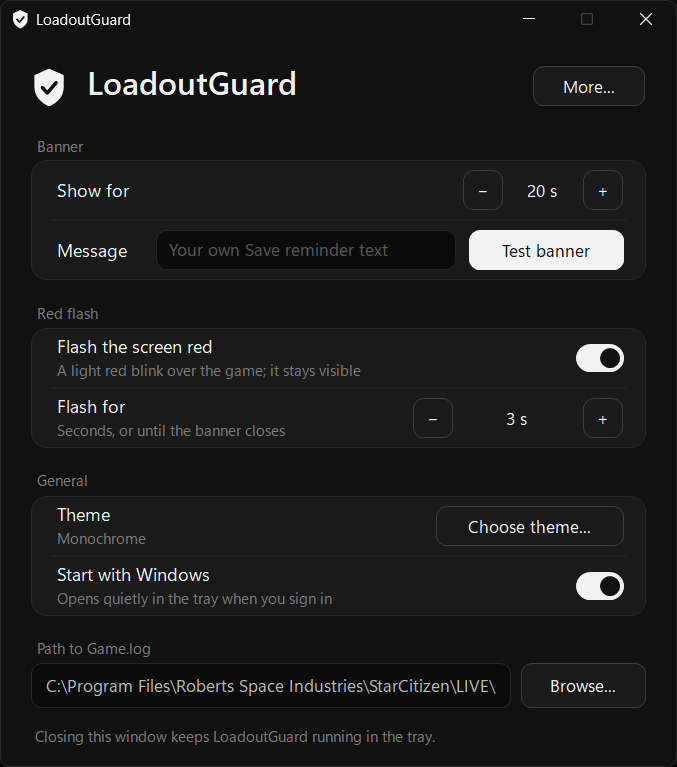
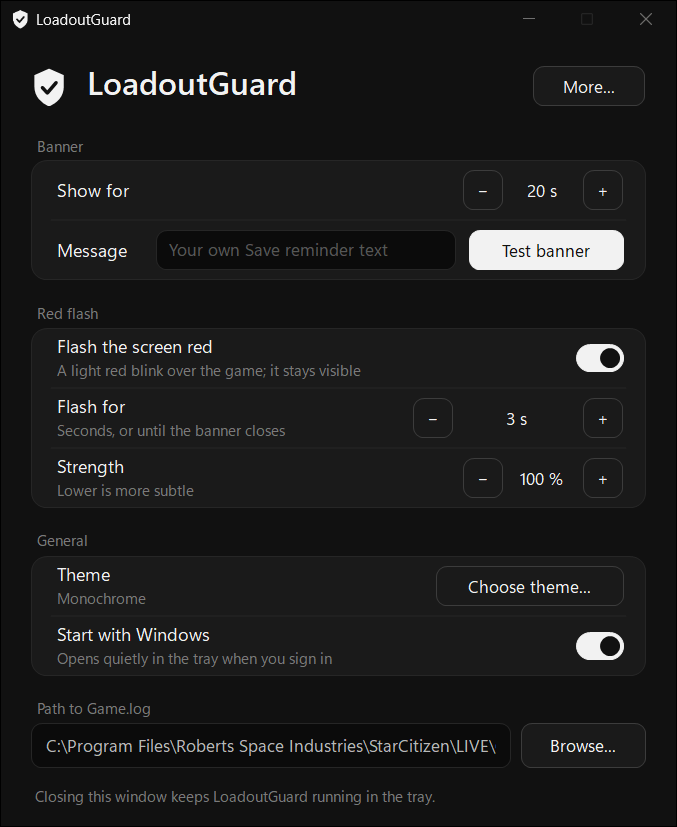
Add a Strength setting for the red flash
A new row in the Red flash card sets how strong the red gets, 10 to 100 %
in steps of 10, so the blink can be made more subtle. Saved as
flashStrength in settings.ini (1-100, default 100 = unchanged).
README and screenshot updated.

diff --git a/src/MainWindow.cs b/src/MainWindow.cs
@@ -10,7 +10,8 @@ class MainWindow : Form
 {
     static readonly int[] SecondSteps = { 5, 10, 15, 20, 30, 45, 60, 90, 120 };
     static readonly int[] FlashSteps = { 3, 5, 10, 20, 30, 60, 0 }; // 0 = until the banner closes
-    public const int Height96 = 582;
+    static readonly int[] StrengthSteps = { 10, 20, 30, 40, 50, 60, 70, 80, 90, 100 };
+    public const int Height96 = 630;
     const int Width96 = 540, Pad = 24, Inner = Width96 - 2 * Pad, Right = Inner - 18, RowH = 48;
     const string FooterText = "Closing this window keeps LoadoutGuard running in the tray.";
 
@@ -18,10 +19,10 @@ class MainWindow : Form
     readonly Action changed, testBanner, checkUpdates, uninstall;
     readonly Mark mark = new Mark();
     readonly Label title = new Label(), footer = new Label();
-    readonly Label secondsValue = new Label(), flashValue = new Label(), themeName = new Label();
+    readonly Label secondsValue = new Label(), flashValue = new Label(), strengthValue = new Label(), themeName = new Label();
     readonly Toggle startup = new Toggle(), flash = new Toggle();
     readonly PillButton fewer = new PillButton(), more = new PillButton(), test = new PillButton();
-    readonly PillButton shorter = new PillButton(), longer = new PillButton();
+    readonly PillButton shorter = new PillButton(), longer = new PillButton(), weaker = new PillButton(), stronger = new PillButton();
     readonly PillButton chooseTheme = new PillButton(), browse = new PillButton(), options = new PillButton();
     readonly TextBox customMessage = new TextBox(), logPath = new TextBox();
     readonly List<Label> sections = new List<Label>(), rowTitles = new List<Label>(), rowNotes = new List<Label>();
@@ -97,7 +98,7 @@ class MainWindow : Form
 
         // red flash
         Section("Red flash", 212);
-        var red = AddCard(232, 2, RowH);
+        var red = AddCard(232, 3, RowH);
         ToggleRow(red, 0, flash, "Flash the screen red", "A light red blink over the game; it stays visible",
             settings.Flash, delegate { settings.Flash = flash.Checked; });
         var flashLabel = new Label { Text = "Flash for", Font = Ui.Font(10.5f) };
@@ -112,10 +113,22 @@ class MainWindow : Form
         ShowFlashSeconds();
         shorter.Click += delegate { SetFlashSeconds(-1); };
         longer.Click += delegate { SetFlashSeconds(+1); };
+        var strengthLabel = new Label { Text = "Strength", Font = Ui.Font(10.5f) };
+        PlaceText(red, strengthLabel, 18, 2 * RowH + 5);
+        rowTitles.Add(strengthLabel);
+        var strengthNote = new Label { Text = "Lower is more subtle", Font = Ui.Font(9f) };
+        PlaceText(red, strengthNote, 18, 2 * RowH + 26);
+        rowNotes.Add(strengthNote);
+        weaker.Text = "−";
+        stronger.Text = "+";
+        Stepper(red, 2, weaker, strengthValue, stronger, 64);
+        ShowStrength();
+        weaker.Click += delegate { SetStrength(-1); };
+        stronger.Click += delegate { SetStrength(+1); };
 
         // theme and startup
-        Section("General", 346);
-        var general = AddCard(366, 2, RowH);
+        Section("General", 394);
+        var general = AddCard(414, 2, RowH);
         var themeLabel = new Label { Text = "Theme", Font = Ui.Font(10.5f) };
         PlaceText(general, themeLabel, 18, 5);
         rowTitles.Add(themeLabel);
@@ -133,14 +146,14 @@ class MainWindow : Form
             AutoStart.Enabled, delegate { SetAutoStart(); });
 
         // Game.log
-        logSection = Section("Path to Game.log", 480);
+        logSection = Section("Path to Game.log", 528);
         // typed, pasted or browsed; same rounded frame as the message box
         var logFrame = new PathBox { Cursor = Cursors.IBeam };
-        Place(this, logFrame, Pad, 500, Inner - 108, 36);
+        Place(this, logFrame, Pad, 548, Inner - 108, 36);
         logFrame.Click += delegate { logPath.Focus(); };
         logPath.BorderStyle = BorderStyle.None;
         logPath.Text = settings.GameLog; // before the handler, so loading doesn't count as a change
-        Place(this, logPath, Pad + 12, 500, Inner - 108 - 24, 20);
+        Place(this, logPath, Pad + 12, 548, Inner - 108 - 24, 20);
         logPath.Top = logFrame.Top + (logFrame.Height - logPath.Height) / 2;
         logPath.BringToFront();
         logPath.TextChanged += delegate
@@ -150,12 +163,12 @@ class MainWindow : Form
         };
         logPath.KeyDown += (s, e) => { if (e.KeyCode == Keys.Enter) e.SuppressKeyPress = true; }; // no error ding
         browse.Text = "Browse...";
-        Place(this, browse, Pad + Inner - 100, 500, 100, 36);
+        Place(this, browse, Pad + Inner - 100, 548, 100, 36);
         browse.Click += delegate { Browse(); };
 
         footer.Text = FooterText;
         footer.Font = Ui.Font(9f);
-        PlaceText(this, footer, Pad, 550);
+        PlaceText(this, footer, Pad, 598);
 
         ApplyTheme();
         Shown += delegate { ActiveControl = null; }; // no blinking caret in the message box on open
@@ -186,7 +199,7 @@ class MainWindow : Form
         Ui.StyleTitleBar(this, t);
 
         title.ForeColor = t.Text;
-        secondsValue.ForeColor = flashValue.ForeColor = customMessage.ForeColor = t.Text;
+        secondsValue.ForeColor = flashValue.ForeColor = strengthValue.ForeColor = customMessage.ForeColor = t.Text;
         logPath.ForeColor = t.Text2;
         customMessage.BackColor = logPath.BackColor = t.Side;
         footer.ForeColor = t.Text3;
@@ -248,6 +261,23 @@ class MainWindow : Form
     void ShowFlashSeconds()
     {
         flashValue.Text = settings.FlashSeconds == 0 ? "Until closed" : settings.FlashSeconds + " s";
+    }
+
+    // One step along StrengthSteps, from the nearest step (a hand-typed value may be between them).
+    void SetStrength(int direction)
+    {
+        int i = 0;
+        while (i < StrengthSteps.Length - 1 && StrengthSteps[i] < settings.FlashStrength) i++;
+        // StrengthSteps[i] is the first step >= the value: + lands on it if the value is between steps
+        if (StrengthSteps[i] == settings.FlashStrength || direction < 0) i += direction;
+        settings.FlashStrength = StrengthSteps[Math.Max(0, Math.Min(StrengthSteps.Length - 1, i))];
+        ShowStrength();
+        Changed();
+    }
+
+    void ShowStrength()
+    {
+        strengthValue.Text = settings.FlashStrength + " %";
     }
 
     void Browse()

diff --git a/tests/SelfTest.cs b/tests/SelfTest.cs
@@ -168,11 +168,13 @@ static class SelfTest
 
     static void TestSettings()
     {
-        var p = Settings.Parse(new[] { "; comment", "editorOpenPattern = a=b", "saveButtonArea=", "bannerSeconds=abc", "FLASH=false", "flashSeconds=-2", "unknown=true", "junk" });
+        var p = Settings.Parse(new[] { "; comment", "editorOpenPattern = a=b", "saveButtonArea=", "bannerSeconds=abc", "FLASH=false", "flashSeconds=-2", "flashStrength=0", "unknown=true", "junk" });
         Check(p.EditorOpenPattern == "a=b", "a value may contain '='");
         Check(p.SaveButtonArea == "", "an empty value is kept (turns Save detection off)");
         Check(p.BannerSeconds == new Settings().BannerSeconds, "a bad number keeps the default");
         Check(p.FlashSeconds == new Settings().FlashSeconds, "a negative flash time keeps the default");
+        Check(p.FlashStrength == 100, "a flash strength below 1 keeps the default");
+        Check(Settings.Parse(new[] { "flashStrength=250" }).FlashStrength == 100, "a flash strength above 100 is capped");
         Check(!p.Flash, "booleans and key case are handled; unknown keys are ignored");
         Check(Settings.Parse(new[] { "flash=maybe" }).Flash, "a bad boolean keeps the default");
         Check(!p.IsNew, "a parsed file is not a first run");
@@ -192,6 +194,7 @@ static class SelfTest
             original.BannerSeconds = 7;
             original.Flash = false;
             original.FlashSeconds = 0;
+            original.FlashStrength = 40;
             original.Theme = "Ember";
             original.SaveButtonArea = "0.1,0.2,0.3,0.4";
             original.CustomMessage = "Insure the ship = do it now!";
@@ -203,7 +206,7 @@ static class SelfTest
             Check(Settings.Parse(File.ReadAllLines(path)).CustomMessage == "Save insurance", "a line break in the custom message is saved as a space");
             Check(new Settings().CustomMessage == "", "no custom message by default");
             Check(back.GameLog == original.GameLog && back.EditorOpenPattern == original.EditorOpenPattern
-                && back.BannerSeconds == 7 && !back.Flash && back.FlashSeconds == 0 && back.Theme == "Ember"
+                && back.BannerSeconds == 7 && !back.Flash && back.FlashSeconds == 0 && back.FlashStrength == 40 && back.Theme == "Ember"
                 && back.SaveButtonArea == "0.1,0.2,0.3,0.4",
                 "saved settings read back unchanged");
         }

diff --git a/src/Settings.cs b/src/Settings.cs
@@ -17,6 +17,7 @@ class Settings
     public string CustomMessage = ""; // empty = the standard Save reminder text
     public bool Flash = true; // a light red blink over the game with each reminder
     public int FlashSeconds = 3; // 0 = until the banner closes
+    public int FlashStrength = 100; // percent of the strongest red, 1-100
     public string Theme = "Monochrome";
 
     // True when no settings file existed yet (first run).
@@ -60,6 +61,7 @@ class Settings
                 case "custommessage": s.CustomMessage = value; break;
                 case "flash": s.Flash = Bool(value, s.Flash); break;
                 case "flashseconds": s.FlashSeconds = Number(value, 0, s.FlashSeconds); break;
+                case "flashstrength": s.FlashStrength = Math.Min(100, Number(value, 1, s.FlashStrength)); break;
                 case "theme": s.Theme = value; break;
             }
         }
@@ -86,6 +88,8 @@ class Settings
             "flash=" + Text(Flash),
             "; How long it blinks, in seconds (one blink per second). 0 = until the banner closes.",
             "flashSeconds=" + FlashSeconds,
+            "; How strong the red is, in percent (1 to 100). Lower is more subtle.",
+            "flashStrength=" + FlashStrength,
             "; Monochrome, Nebula, Ember, Midnight, mobiGlas or Paper.",
             "theme=" + Theme,
             "",

diff --git a/src/ScreenFlash.cs b/src/ScreenFlash.cs
@@ -12,6 +12,7 @@ class ScreenFlash : Form
     readonly Timer timer = new Timer { Interval = 15 };
     DateTime started;
     int seconds;
+    double peak;
 
     public ScreenFlash()
     {
@@ -42,9 +43,11 @@ class ScreenFlash : Form
     }
 
     // Blinks for this many seconds, or with 0 until Stop() is called (when the banner closes).
-    public void Blink(int seconds)
+    // strength: percent of Peak, so players can make it more subtle.
+    public void Blink(int seconds, int strength)
     {
         this.seconds = seconds;
+        peak = Peak * Math.Max(1, Math.Min(100, strength)) / 100.0;
         Bounds = Ui.ActiveScreen().Bounds;
         started = DateTime.UtcNow;
         Opacity = 0;
@@ -67,6 +70,6 @@ class ScreenFlash : Form
             return;
         }
         double s = Math.Sin(Math.PI * (ms % PulseMs) / PulseMs); // smooth in and out, no hard flicker
-        Opacity = Peak * s * s;
+        Opacity = peak * s * s;
     }
 }

diff --git a/src/Program.cs b/src/Program.cs
@@ -251,7 +251,7 @@ class TrayApp : ApplicationContext
     {
         // the player's own text replaces the standard Save reminder
         string message = settings.CustomMessage.Length > 0 ? settings.CustomMessage : Detector.LoadoutSavedMessage;
-        if (settings.Flash) flash.Blink(settings.FlashSeconds); // first, so the banner shows above the red
+        if (settings.Flash) flash.Blink(settings.FlashSeconds, settings.FlashStrength); // first, so the banner shows above the red
         banner.ShowMessage(message, settings.BannerSeconds);
     }
 

diff --git a/README.md b/README.md
@@ -66,7 +66,7 @@ Open the window (double-click the tray icon) and click **More...** at the top ri
 Open it by double-clicking the tray icon, or by starting `LoadoutGuard.exe` again. Every change applies at once; there's no Save button and no restart needed. On small or highly scaled screens (such as 1366x768, or a 1080p laptop at 150%) the window shrinks to fit.
 
 - **Banner**: how long the banner stays, **Message** for your own reminder text (leave it empty for the standard message), and **Test banner** to check that the banner and the blink show over your game.
-- **Red flash**: **Flash the screen red** turns the blink on or off. **Flash for** sets how long it blinks: 3 to 60 seconds, or **Until closed** to keep blinking until the banner closes.
+- **Red flash**: **Flash the screen red** turns the blink on or off. **Flash for** sets how long it blinks: 3 to 60 seconds, or **Until closed** to keep blinking until the banner closes. **Strength** makes the red more subtle: 10 to 100 %.
 - **General**: **Start with Windows** (on by default) and **Choose theme...**, which opens the theme picker: Monochrome (black and white, the default), Nebula (purple), Ember (clay), Midnight (blue), mobiGlas (cyan) or Paper (light). The theme also colours the banner, the tray icon and, on Windows 11, the title bar.
 - **More...** (top right): the version, **Check for updates** and **Uninstall...**.
 - **Path to Game.log**: where your log is. Type or paste the path, or use **Browse...**, for another drive or the PTU. If the log isn't found, this says so in red.
@@ -82,6 +82,7 @@ Everything is stored in `%APPDATA%\LoadoutGuard\settings.ini`. The window covers
 | `gameLog` | `C:\Program Files\Roberts Space Industries\StarCitizen\LIVE\Game.log` | Log to watch. If missing, LoadoutGuard looks for a LIVE install on all fixed drives. Point it at `PTU\Game.log` for the PTU. |
 | `flash` | `true` | Blink the screen lightly red with each reminder. |
 | `flashSeconds` | `3` | How long it blinks, in seconds (one blink a second). `0` blinks until the banner closes. |
+| `flashStrength` | `100` | How strong the red is, in percent (1 to 100). Lower is more subtle. |
 | `theme` | `Monochrome` | `Monochrome`, `Nebula`, `Ember`, `Midnight`, `mobiGlas` or `Paper`. |
 | `editorOpenPattern` | `<UI - LoadoutEditor> .*(InitLoadout\|OnLoadoutQueriesFinished)` | Regular expression for the "editor opened" log line, which starts watching for Save clicks. Empty turns Save detection off. |
 | `saveButtonArea` | `0.754,0.799,0.904,0.856` | Where SAVE CHANGES AND EQUIP is: left,top,right,bottom as fractions of the game's 16:9 menu area (0 = left/top edge, 1 = right/bottom edge). On a 16:9 screen that is the whole game window. Use a dot as the decimal point. Empty turns Save detection off. |
